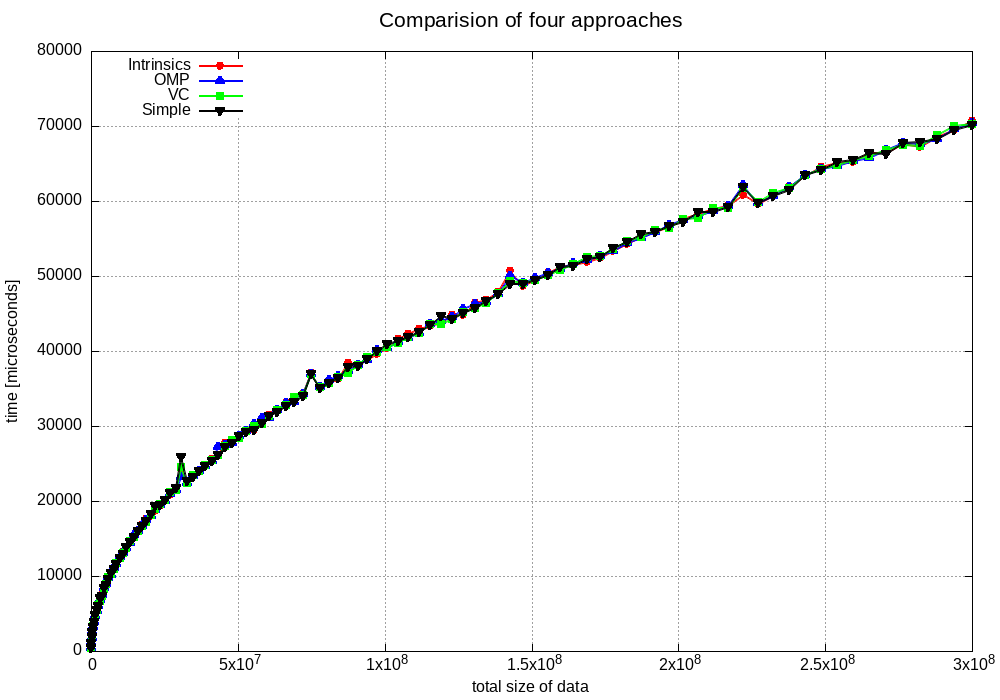
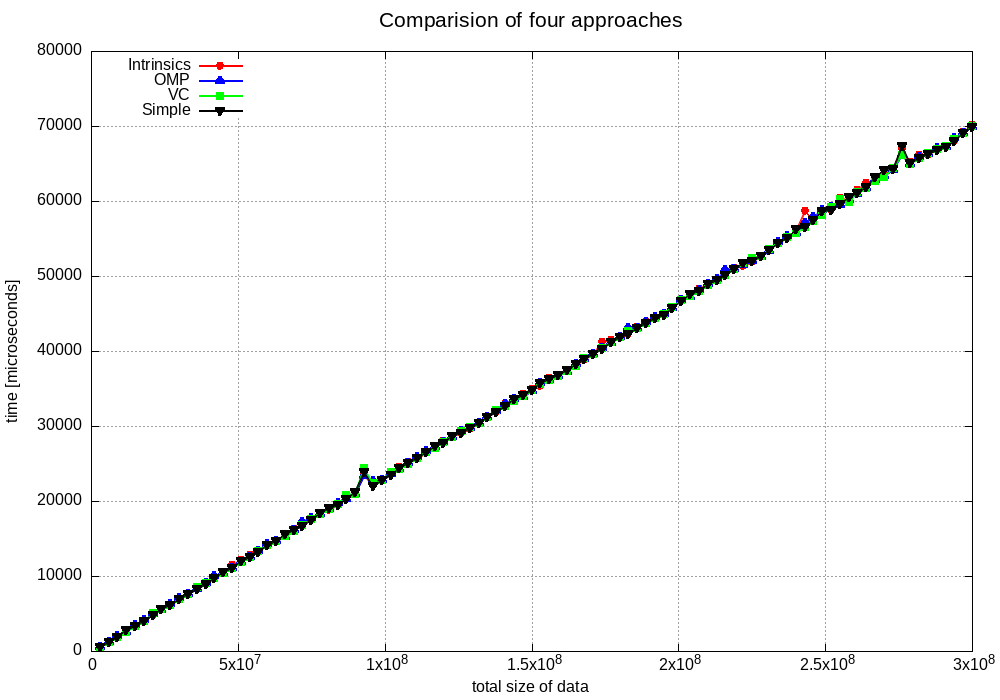
fix benchmark plot

diff --git a/README.md b/README.md
@@ -48,11 +48,11 @@ make benchmark
 ./run_benchmark.sh
 ```
 It will take a while to finish.
-Test runs each approach (intrinsics, vc, omp, compiler) for different data size. In the `run_benchmark.sh` file there is a for loop which starts at 100, increments by 100 and finishes at 10000. This is size factor (lets call it `f`) passed to each program. The real size of one array inside the program is `f * f`. There are three arrays, so total number of data is `3 * f * f`.
+Test runs each approach (intrinsics, vc, omp, compiler) for different data size. In the `run_benchmark.sh` file there is a for loop which starts at 100, increments by 100 and finishes at 10000. This is size factor (lets call it `f`) passed to each program. The real size of one array inside the program is `f * 10000`. There are three arrays, so total number of data is `3 * f * 10000`.
 
 After script will finish the plot will be created. IT should be similar to
 ![Cannot find the plot](./benchmark/benchmark_dummy_loop.png)
-As you can see all approaches seem to behave identically. The question is, why are there peaks at some sizes. I am also not sure if I understant the shape of the plot - I will try to understand it better.
+As you can see all approaches seem to behave identically. The question is, why are there peaks at some sizes.
 
 ## intrinsics continuous
 For big data size (1.2 GB) there is no way it fits in the cache. 
